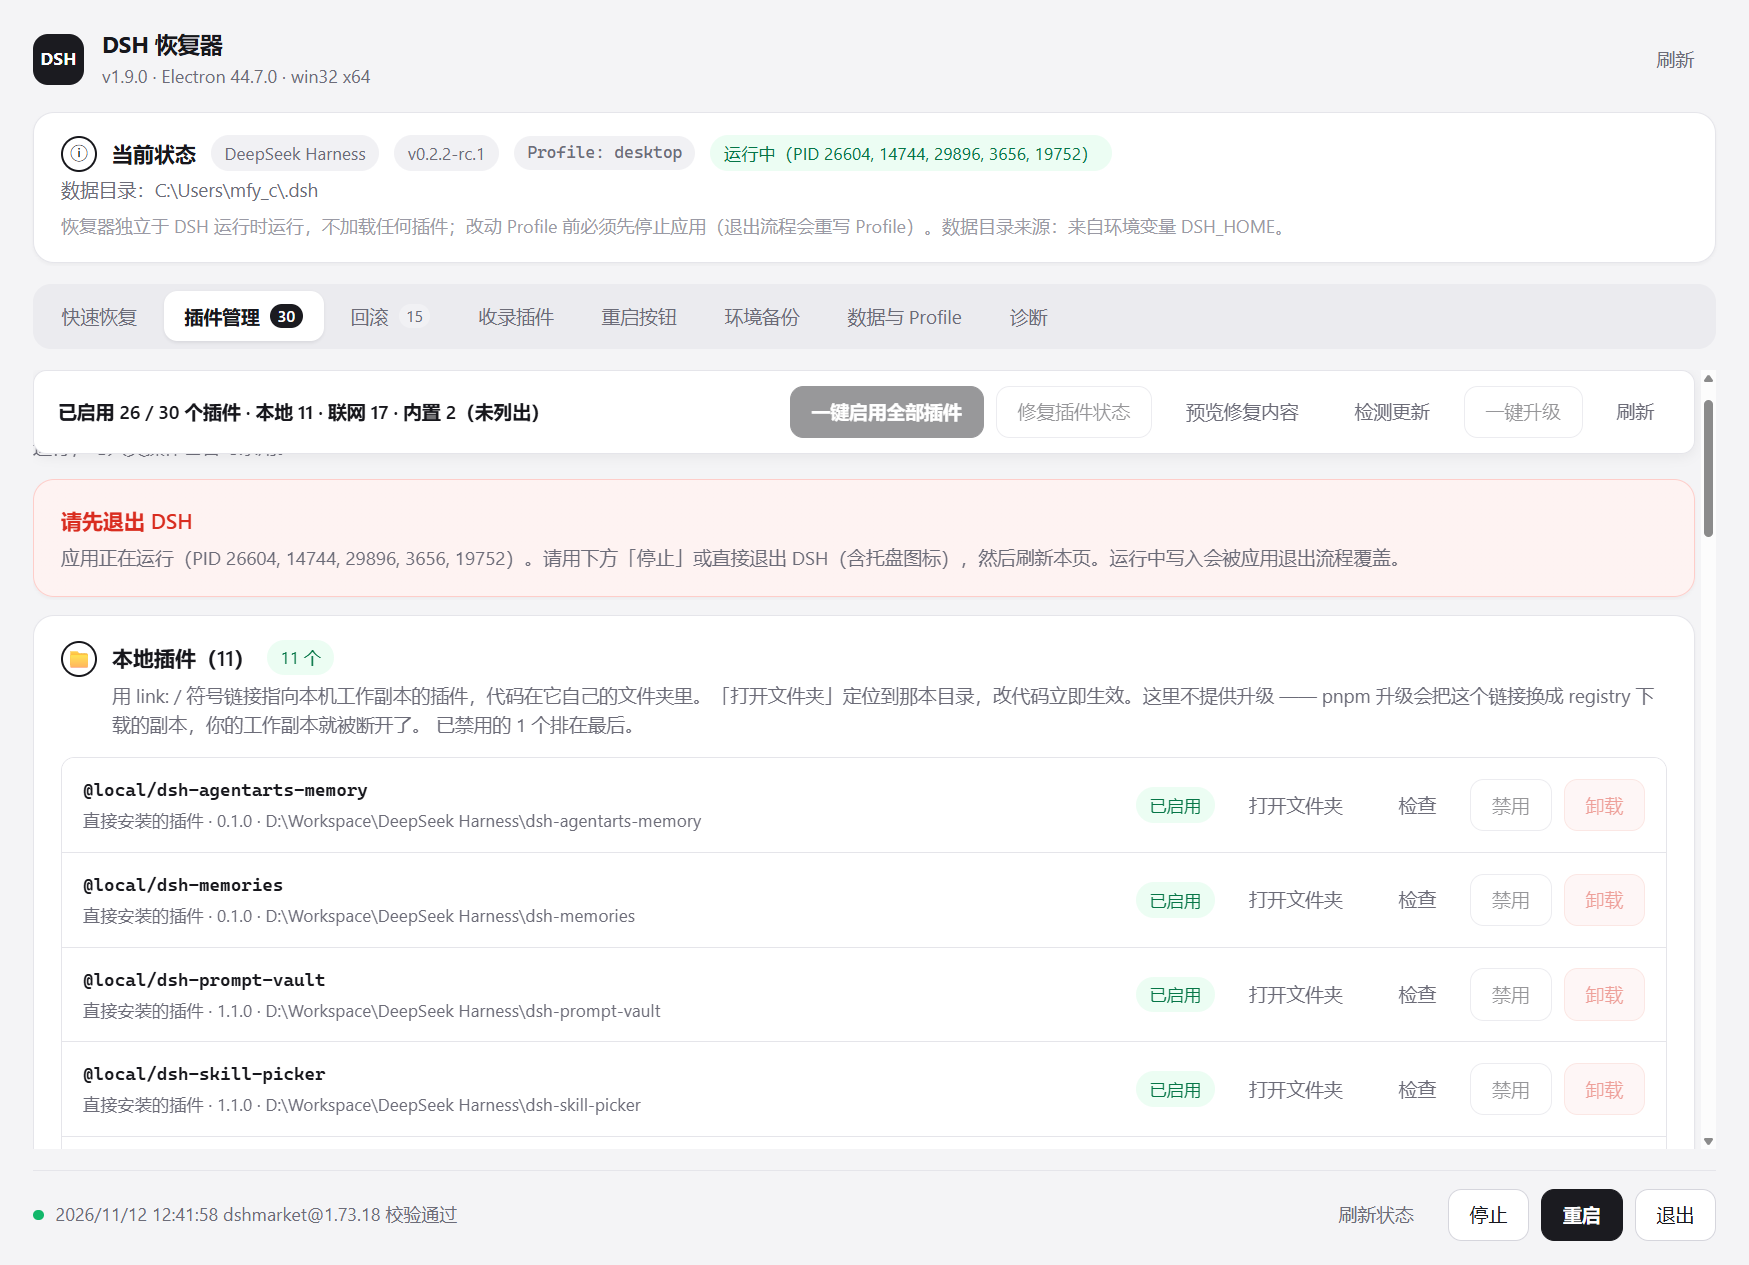
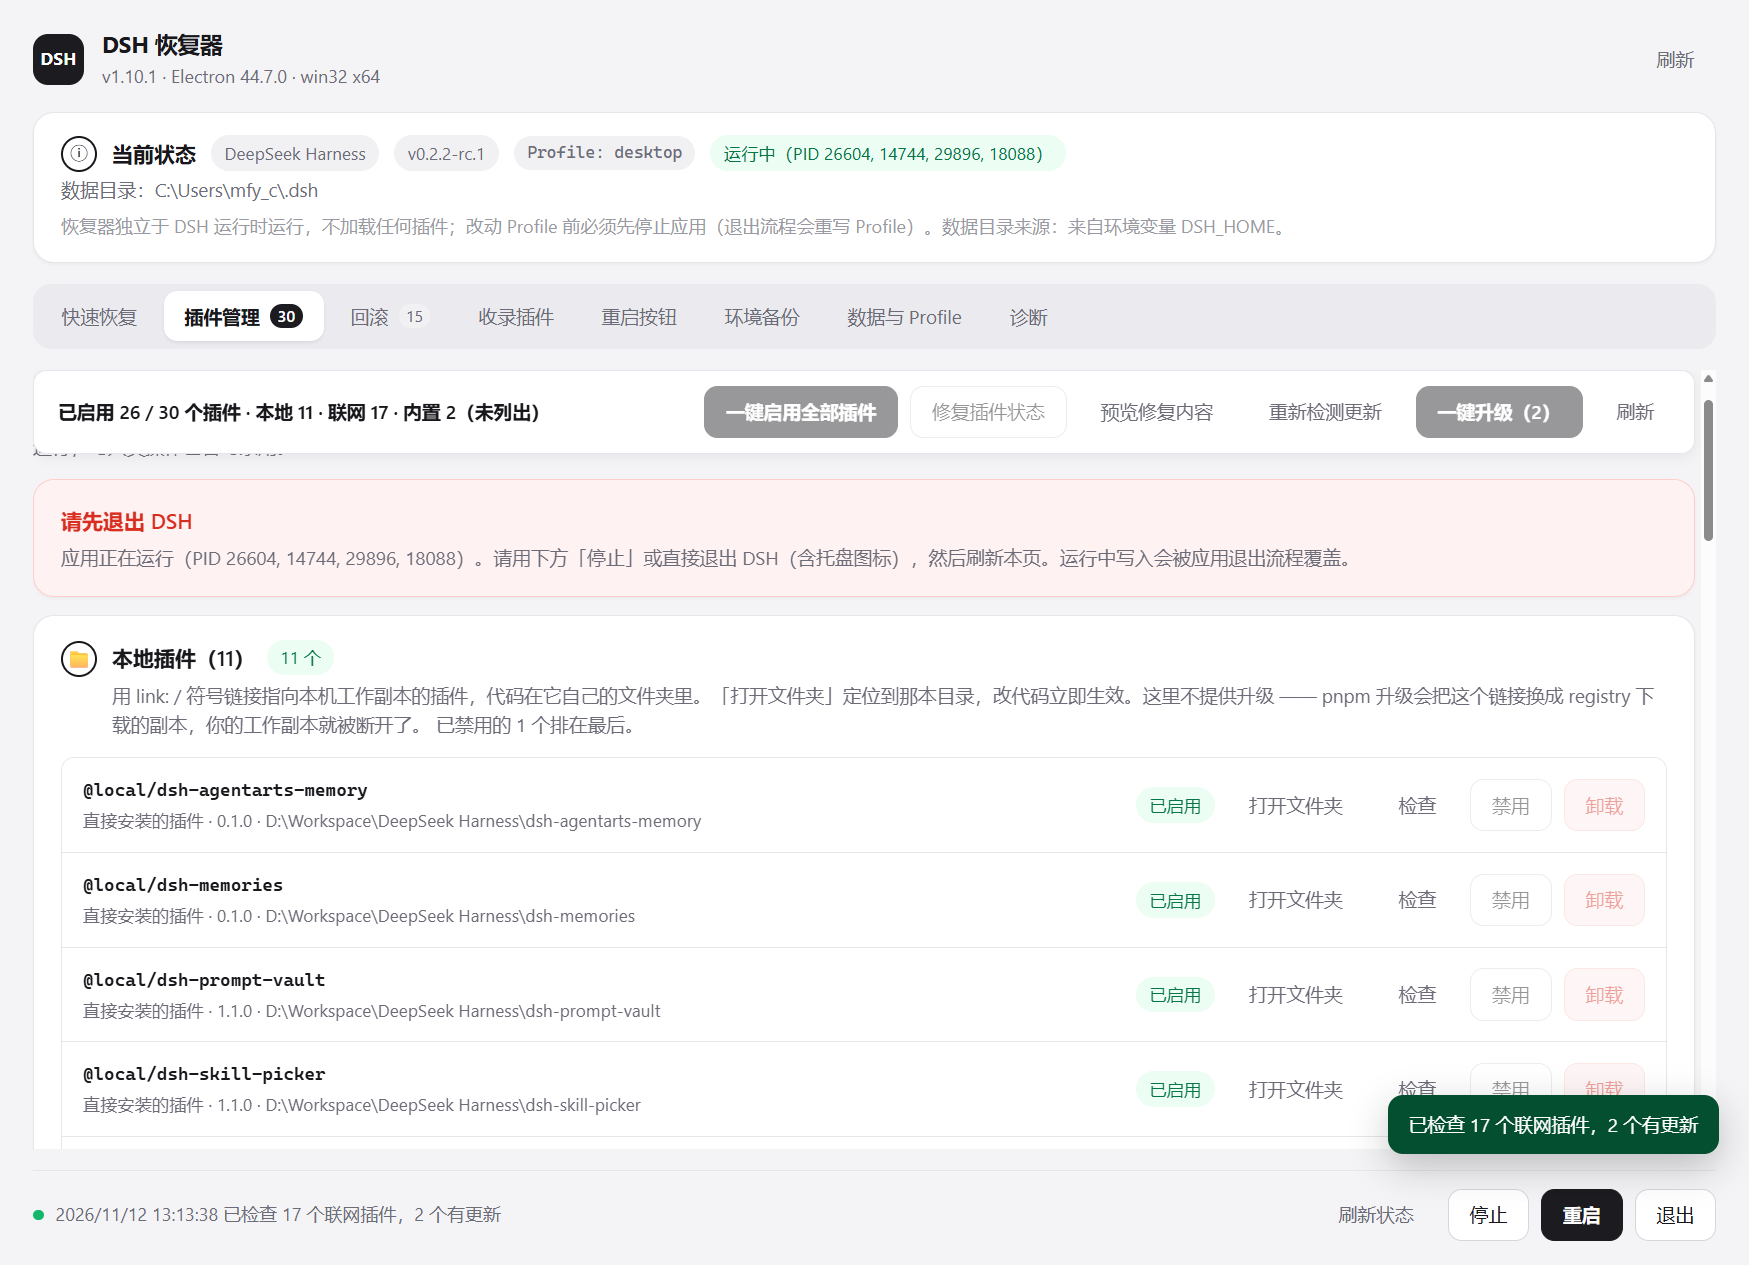
可升级信息并入插件行，不再单独一张卡片
按反馈改布局：删掉「插件更新」那张独立卡片，版本跳转直接显示在联网插件行里 ——
插件名下面那行从 0.5.32 变成 「0.5.32 → 0.5.34 · 有新版本」，
右侧再加一个「可升级 +0.5.34」标记。查看一个插件时不用再去另一张卡片找同一个包名。

仍然保留的只有一种独立卡片：registry 查不到版本的包。那类信息属于
「本次检查不可信」的警告，塞进任何一行都会误导（那些行看起来正常，实际是没查到）。
它们照旧单列，并明确写着「没有算作已是最新」。

扫描完成后用一条 toast 交代总数（「已检查 17 个联网插件，2 个有更新」），
替代原来卡片里的那句话。

--ui-check 断言跟着改：不再断言卡片存在，改为按 DOM 行统计 x.y.z → a.b.c 的
箭头数与「可升级」标记数（inlineJumps / upgradeBadges），并新增反向断言 ——
如果又出现以「插件更新」开头的卡片却没有行内箭头就直接报错。
另外增加了「联网插件」分组的滚动截图（docs/registry-rows.png）。

自检：--self-check ok / --verify 146 项全过 / --ui-check 0 issues
（inlineJumps=2、upgradeBadges=2，与真实扫描出的 2 个待升级插件一致）。

diff --git a/app/renderer/app.js b/app/renderer/app.js
@@ -943,116 +943,6 @@ function cookieCard(running) {
   });
 }
 
-/**
- * Which installed plugins have a newer version on the registry.
- *
- * Three distinct states have to be told apart, because "0 个有更新" means
- * something different in each:
- *
- *   * never scanned   → "还没检查", with the button that scans;
- *   * scanned, clean  → "都是最新版本", with the time it was checked;
- *   * scanned, behind → the list, each row showing the exact version jump.
- *
- * Packages the registry could not answer for (network, unpublished name, a
- * mirror that does not have it) are listed separately instead of being counted
- * as "no update" — silently turning a failure into "up to date" is the one
- * mistake this card must not make.
- */
-function versionsCard(versions, { running, outdatedCount, scanned }) {
-  if (versions === undefined) {
-    return card({
-      icon: "⬆",
-      title: "插件更新",
-      desc: "还没检查过 registry。点上面的「检测更新」向 npm 查询每个联网插件的最新发布版本。",
-      body: empty("尚未检查。"),
-    });
-  }
-  if (scanned !== true) {
-    return card({
-      icon: "⬆",
-      title: "插件更新",
-      desc: "还没检查过 registry。点上面的「检测更新」向 npm 查询每个联网插件的最新发布版本（只读，不需要停止应用）。",
-    });
-  }
-
-  const outdated = versions.outdated ?? [];
-  const failed = versions.failed ?? [];
-  // NOTE the callback parameter name: it must NOT be `row`, because `row()` is
-  // the module-level row builder. Naming it `row` shadowed that helper and made
-  // `row({...})` a call on a plain object — the reported
-  // "row is not a function", which blanked the whole page after a scan.
-  const outdatedNodes = outdated.map((entry) =>
-    row({
-      name: entry.name,
-      mono: true,
-      sub: joinSub(
-        `${entry.installed} → ${entry.latest}`,
-        entry.deprecated === undefined ? undefined : `已废弃：${entry.deprecated}`,
-      ),
-      side: [
-        chip(`+${entry.latest}`, "warn"),
-        button("升级这一个", "plugin-update", entry.name, { className: "btn--ghost", disabled: running }),
-      ],
-    }),
-  );
-  const failedNodes = failed.map((entry) =>
-    row({
-      name: entry.name,
-      mono: true,
-      muted: true,
-      sub: joinSub(entry.installed, entry.error),
-    }),
-  );
-  // Installed copies NEWER than the registry's `latest` are reported, not
-  // upgraded: that only happens for a link, a dist-tag or a fork, and "updating"
-  // would move the user backwards.
-  const ahead = (versions.rows ?? []).filter((entry) => entry.ok === true && entry.behind === true);
-
-  // Everything goes into ONE card. A nested `card()` inside `body` would render a
-  // card inside a card (double padding, nested border) and, in this case, also
-  // sat after a `.map` that could throw — so the failure took the whole panel
-  // down instead of degrading to a partial list.
-  const body = [];
-  if (outdatedNodes.length > 0) body.push(list(outdatedNodes));
-  if (failedNodes.length > 0) {
-    body.push(
-      hint(
-        `有 ${failed.length} 个包在 registry 上查不到版本（下面单独列出）。它们**没有**被算作「已是最新」—— ` +
-          "查不到可能是网络问题、私有包，或这个 Profile 用了不同的 registry。",
-      ),
-    );
-    body.push(list(failedNodes));
-  }
-  if (ahead.length > 0) {
-    body.push(
-      hint(
-        `另外 ${ahead.length} 个插件本机版本比 registry 的 latest 还新（${ahead
-          .map((entry) => `${entry.name} ${entry.installed}`)
-          .join("、")}）。这通常是本地工作副本或 dist-tag，不会参与升级。`,
-      ),
-    );
-  }
-  if (body.length === 0) body.push(empty("已检查，所有联网插件都是最新版本。"));
-
-  return card({
-    icon: "⬆",
-    title: `插件更新（${outdatedCount} 个有新版${failed.length > 0 ? ` · ${failed.length} 个查不到` : ""}）`,
-    desc:
-      (outdatedCount === 0
-        ? `已检查 ${versions.checked} 个联网插件，都是最新版本。`
-        : `已检查 ${versions.checked} 个联网插件，${outdatedCount} 个有更新的版本。可以逐个升级，或用上面的「一键升级」。`) +
-      (versions.checkedAt === undefined ? "" : ` 检查时间：${new Date(versions.checkedAt).toLocaleString("zh-CN")}。`) +
-      (versions.registry === undefined ? "" : ` registry：${versions.registry}。`),
-    tags:
-      outdatedCount === 0 && failed.length === 0
-        ? [chip("已是最新", "ok")]
-        : [
-            outdatedCount > 0 ? chip(`${outdatedCount} 个待升级`, "warn") : undefined,
-            failed.length > 0 ? chip(`${failed.length} 个查不到`, "danger") : undefined,
-          ].filter(Boolean),
-    body,
-  });
-}
 
 // --- panel: plugins (management + updates on one page) --------------------
 
@@ -1085,6 +975,14 @@ function renderPlugins() {
   const updaterRows = updaterReady ? (info.rows ?? []) : [];
   const updaterByName = new Map(updaterRows.map((entry) => [entry.name, entry]));
 
+  // Registry-scan verdict by package name, so a row can show 「0.5.32 → 0.5.34」
+  // inline. The scan result also covers packages that could not be looked up and
+  // ones already newer than the registry — only `outdated` rows get the arrow.
+  const versionByName = new Map();
+  for (const entry of state.pluginVersions?.rows ?? []) {
+    versionByName.set(entry.name, entry);
+  }
+
   const plugins = detail.plugins;
   const bundles = plugins.filter((plugin) => plugin.bundle === true);
   const others = plugins.filter((plugin) => plugin.bundle !== true);
@@ -1114,6 +1012,9 @@ function renderPlugins() {
   const versions = state.pluginVersions;
   const outdatedRows = versions?.outdated ?? [];
   const outdatedCount = outdatedRows.length;
+  // Packages the registry could not answer for. Kept visible on their own because
+  // "查不到" must never be read as "已是最新".
+  const failedVersions = versions?.failed ?? [];
   const scanned = versions?.checkedAt !== undefined;
   const checkingVersions = busy && busyLabel.includes("检查插件更新");
   const upgradingAll = busy && busyLabel.includes("升级全部");
@@ -1295,7 +1196,7 @@ function renderPlugins() {
           "用 link: / 符号链接指向本机工作副本的插件，代码在它自己的文件夹里。「打开文件夹」定位到那本目录，改代码立即生效。这里不提供升级 —— pnpm 升级会把这个链接换成 registry 下载的副本，你的工作副本就被断开了。" +
           (offCountLocal > 0 ? ` 已禁用的 ${offCountLocal} 个排在最后。` : ""),
         tags: [chip(`${localPlugins.length} 个`, "ok")],
-        body: list(sorted.map((plugin) => pluginRow(plugin, updaterByName.get(plugin.name), running))),
+        body: list(sorted.map((plugin) => pluginRow(plugin, updaterByName.get(plugin.name), running, versionByName.get(plugin.name)))),
       }),
     );
   }
@@ -1313,7 +1214,7 @@ function renderPlugins() {
           (noHome > 0 ? `，其中 ${noHome} 个没有声明 homepage / repository，无法打开主页` : "") +
           (offCountRegistry > 0 ? `；已禁用的 ${offCountRegistry} 个排在最后。` : "。"),
         tags: [chip(`${registryPlugins.length} 个`)],
-        body: list(sorted.map((plugin) => pluginRow(plugin, updaterByName.get(plugin.name), running))),
+        body: list(sorted.map((plugin) => pluginRow(plugin, updaterByName.get(plugin.name), running, versionByName.get(plugin.name)))),
       }),
     );
   }
@@ -1365,12 +1266,35 @@ function renderPlugins() {
     );
   }
 
-  // --- registry versions: which plugins have something newer --------------
-  // The list is what 「一键升级」 acts on, so it is shown as its own card rather
-  // than folded into each row: the point is to see, at a glance, how many
-  // upgrades are pending and what they would bump.
-  if (updaterReady) {
-    nodes.push(versionsCard(versions, { running, outdatedCount, scanned }));
+  // --- registry versions ---------------------------------------------------
+  // No separate card: the version jump is rendered on each plugin row, next to
+  // the version it upgrades from. What is left here is the one thing a row
+  // cannot say by itself — that the scan could not reach some packages. Those
+  // are NOT "up to date", and silently dropping them would be the worst possible
+  // reading of a failed check.
+  if (updaterReady && scanned && failedVersions.length > 0) {
+    nodes.push(
+      card({
+        title: `插件更新：${failedVersions.length} 个包查不到版本`,
+        desc:
+          `registry 没有返回这些包的信息（网络问题、私有包，或这个 Profile 用了不同的 registry）。` +
+          "它们**没有**被算作「已是最新」，也不在「一键升级」的范围内。" +
+          (versions?.registry === undefined ? "" : ` 本次查询的 registry：${versions.registry}`) +
+          (versions?.checkedAt === undefined ? "" : `，时间：${new Date(versions.checkedAt).toLocaleString("zh-CN")}`) +
+          "。",
+        tags: [chip(`${failedVersions.length} 个`, "danger")],
+        body: list(
+          failedVersions.map((entry) =>
+            row({
+              name: entry.name,
+              mono: true,
+              muted: true,
+              sub: joinSub(entry.installed, entry.error),
+            }),
+          ),
+        ),
+      }),
+    );
   }
 
   // --- the market itself: install it, or update it -------------------------
@@ -1465,7 +1389,7 @@ function renderPlugins() {
  * user actually edits — and pnpm has nothing to upgrade when the package is not
  * on disk. Such rows get 检查 instead, which is the only useful verb there.
  */
-function pluginRow(plugin, updaterRow, running) {
+function pluginRow(plugin, updaterRow, running, versionInfo) {
   const core = plugin.core === true;
   const cannotUninstall = core || plugin.quarantinable !== true;
   const local = plugin.source === "local";
@@ -1477,6 +1401,12 @@ function pluginRow(plugin, updaterRow, running) {
   const canOpen = local || builtin ? plugin.installedLocal === true || typeof plugin.sourcePath === "string" : typeof plugin.homepage === "string";
   const problems = updaterRow?.problems ?? [];
   const upgradable = !local && !builtin && updaterRow !== undefined && updaterRow.version !== undefined && updaterRow.declared !== undefined;
+  // The registry scan's verdict for this package, if it was part of the scan.
+  // Rendered inline (「0.5.32 → 0.5.34」) instead of in a separate card: the
+  // version jump belongs next to the version it upgrades from, and a separate
+  // list meant reading the same package name twice.
+  const outdated = versionInfo?.outdated === true;
+  const latest = versionInfo?.latest;
   return row({
     name: plugin.name,
     mono: true,
@@ -1484,13 +1414,17 @@ function pluginRow(plugin, updaterRow, running) {
     muted: problems.length > 0,
     sub: joinSub(
       plugin.categoryLabel,
-      plugin.version,
+      // `joinSub` drops undefined parts, so the arrow only appears when a newer
+      // version actually exists.
+      outdated && latest !== undefined ? `${plugin.version ?? updaterRow?.version} → ${latest}` : plugin.version,
       plugin.installedLocal === true ? undefined : "未安装在本地",
+      outdated ? "有新版本" : undefined,
       local ? plugin.sourcePath ?? plugin.spec : undefined,
       problems.length > 0 ? problems.join("；") : undefined,
     ),
     side: [
       chip(plugin.enabled === true ? "已启用" : "已禁用", plugin.enabled === true ? "ok" : undefined),
+      outdated ? chip(`可升级 +${latest}`, "warn") : undefined,
       button(local || builtin ? "打开文件夹" : "打开官网", "open-plugin", plugin.name, {
         className: "btn--ghost",
         disabled: canOpen !== true,

diff --git a/app/main.js b/app/main.js
@@ -501,7 +501,11 @@ async function runUiCheck({ shot }) {
     if (updateAll !== undefined && hasOutdated !== true && updateAll.disabled !== true) {
       issues.push("插件管理：没有检测到更新时「一键升级」仍可点击");
     }
-    if (!pluginsPanel.text.includes("插件更新")) issues.push("插件管理面板缺少「插件更新」区域");
+    // There is no separate 「插件更新」 card any more — the version jump lives on
+    // each plugin row. What must exist is the scan button that produces it.
+    if (!pluginsPanel.actions.some((button) => button.action === "plugin-version-check")) {
+      issues.push("插件管理面板缺少「检测更新」入口");
+    }
 
     // Click 「检测更新」 for real. This is the check that would have caught the
     // `row is not a function` regression: the scan itself succeeded, then the
@@ -518,34 +522,55 @@ async function runUiCheck({ shot }) {
       // to reach the re-render, not to measure latency.
       await sleep(6000);
       const afterScan = await win.webContents.executeJavaScript(
-        `({
-           renderError: window.__renderError ?? null,
-           footer: [...document.querySelectorAll('#footer-actions button')].length,
-           cards: [...document.querySelectorAll('.panel[data-panel="plugins"] section.card')].length,
-           text: document.querySelector('.panel[data-panel="plugins"]')?.innerText ?? '',
-           toasts: [...document.querySelectorAll('#toasts .toast')].map((node) => node.textContent),
-         })`,
+        `(() => {
+           const panel = document.querySelector('.panel[data-panel="plugins"]');
+           const rows = [...(panel?.querySelectorAll('.row.row--plugin') ?? [])];
+           return {
+             renderError: window.__renderError ?? null,
+             footer: [...document.querySelectorAll('#footer-actions button')].length,
+             cards: [...document.querySelectorAll('.panel[data-panel="plugins"] section.card')].length,
+             cardTitles: [...document.querySelectorAll('.panel[data-panel="plugins"] .card__title')].map((n) => n.textContent ?? ''),
+             text: panel?.innerText ?? '',
+             // 「0.5.32 → 0.5.34」 rendered on a plugin row.
+             inlineJumps: rows.filter((r) => /\\d+\\.\\d+\\.\\d+\\s*→\\s*\\d+\\.\\d+\\.\\d+/u.test(r.innerText ?? '')).length,
+             upgradeBadges: rows.filter((r) => (r.innerText ?? '').includes('可升级')).length,
+             toasts: [...document.querySelectorAll('#toasts .toast')].map((node) => node.textContent),
+           };
+         })()`,
       );
       if (afterScan.renderError !== null) issues.push(`点击「检测更新」后渲染异常：${afterScan.renderError}`);
       if (afterScan.footer === 0) issues.push("点击「检测更新」后页脚按钮消失（渲染崩溃）");
       // The page went blank in the reported bug; a panel with no cards is that
       // same failure seen from the outside.
       if (afterScan.cards === 0) issues.push("点击「检测更新」后插件面板没有任何卡片（页面被清空）");
-      // The scan must produce a POSITIVE result, not merely "no crash": the
-      // result card reports how many packages were compared. Requiring that
-      // sentence is what separates "the scan ran and rendered" from "nothing
-      // happened because the click did not reach the backend".
-      const compared = /已检查\s*\d+\s*个联网插件/u.test(afterScan.text);
+      // The scan must produce a POSITIVE result, not merely "no crash". Since the
+      // version jump is rendered on the plugin row itself, the evidence is either
+      // an inline 「x.y.z → a.b.c」 in a row, or a badge saying a row can upgrade.
+      // Requiring one of them is what separates "the scan ran and rendered" from
+      // "nothing happened because the click never reached the backend".
+      const compared = afterScan.inlineJumps > 0 || afterScan.upgradeBadges > 0 || /已检查\s*\d+\s*个联网插件/u.test(afterScan.text);
       if (!compared) {
         issues.push(
-          `点击「检测更新」后没有出现「已检查 N 个联网插件」的结果（面板文字：${afterScan.text.slice(0, 200).replace(/\s+/gu, " ")}）`,
+          `点击「检测更新」后插件行里没有出现版本箭头或「可升级」标记（面板文字：${afterScan.text.slice(0, 200).replace(/\s+/gu, " ")}）`,
         );
+      }
+      // The jump must live on the row, not in a separate card: that is the whole
+      // point of this layout.
+      const versionCard = afterScan.cardTitles.filter((title) => title.startsWith("插件更新"));
+      if (versionCard.length > 0 && afterScan.inlineJumps === 0 && afterScan.upgradeBadges === 0) {
+        issues.push(`仍在用独立卡片展示可升级插件（${versionCard.join(", ")}）`);
       }
       const scanCrash = (afterScan.toasts ?? []).find((text) =>
         /is not a function|Cannot read propert|undefined is not/u.test(text),
       );
       if (scanCrash !== undefined) issues.push(`点击「检测更新」弹出了代码异常：${scanCrash}`);
-      scanResult = { compared, cards: afterScan.cards, sample: afterScan.text.slice(0, 160) };
+      scanResult = {
+        compared,
+        cards: afterScan.cards,
+        inlineJumps: afterScan.inlineJumps,
+        upgradeBadges: afterScan.upgradeBadges,
+        sample: afterScan.text.slice(0, 160),
+      };
     }
   }
 
@@ -598,6 +623,23 @@ async function runUiCheck({ shot }) {
     if (selfUpdateFound !== true) issues.push("诊断面板里找不到「更新恢复器」卡片");
     await sleep(500);
     fs.writeFileSync(shot.replace(/\.png$/i, "-self-update.png"), (await win.webContents.capturePage()).toPNG());
+  }
+
+  // 联网插件 rows carry the registry verdict inline, so capture that list
+  // scrolled into view: it is the evidence for 「版本号后面的 x → y」.
+  await win.webContents.executeJavaScript('document.querySelector(\'[data-action="tab"][data-arg="plugins"]\').click()');
+  await sleep(400);
+  {
+    const scrolled = await win.webContents.executeJavaScript(`(() => {
+      const cards = [...document.querySelectorAll('.panel[data-panel="plugins"] section.card')];
+      const target = cards.find((c) => (c.querySelector('.card__title')?.textContent ?? '').startsWith('联网插件'));
+      if (target === undefined) return false;
+      target.scrollIntoView({ block: 'start' });
+      return true;
+    })()`);
+    if (scrolled !== true) issues.push("插件管理面板里找不到「联网插件」分组");
+    await sleep(400);
+    fs.writeFileSync(shot.replace(/\.png$/i, "-registry-rows.png"), (await win.webContents.capturePage()).toPNG());
   }
 
   await win.webContents.executeJavaScript("document.querySelector('[data-action=\"tab\"][data-arg=\"restart\"]').click()");
